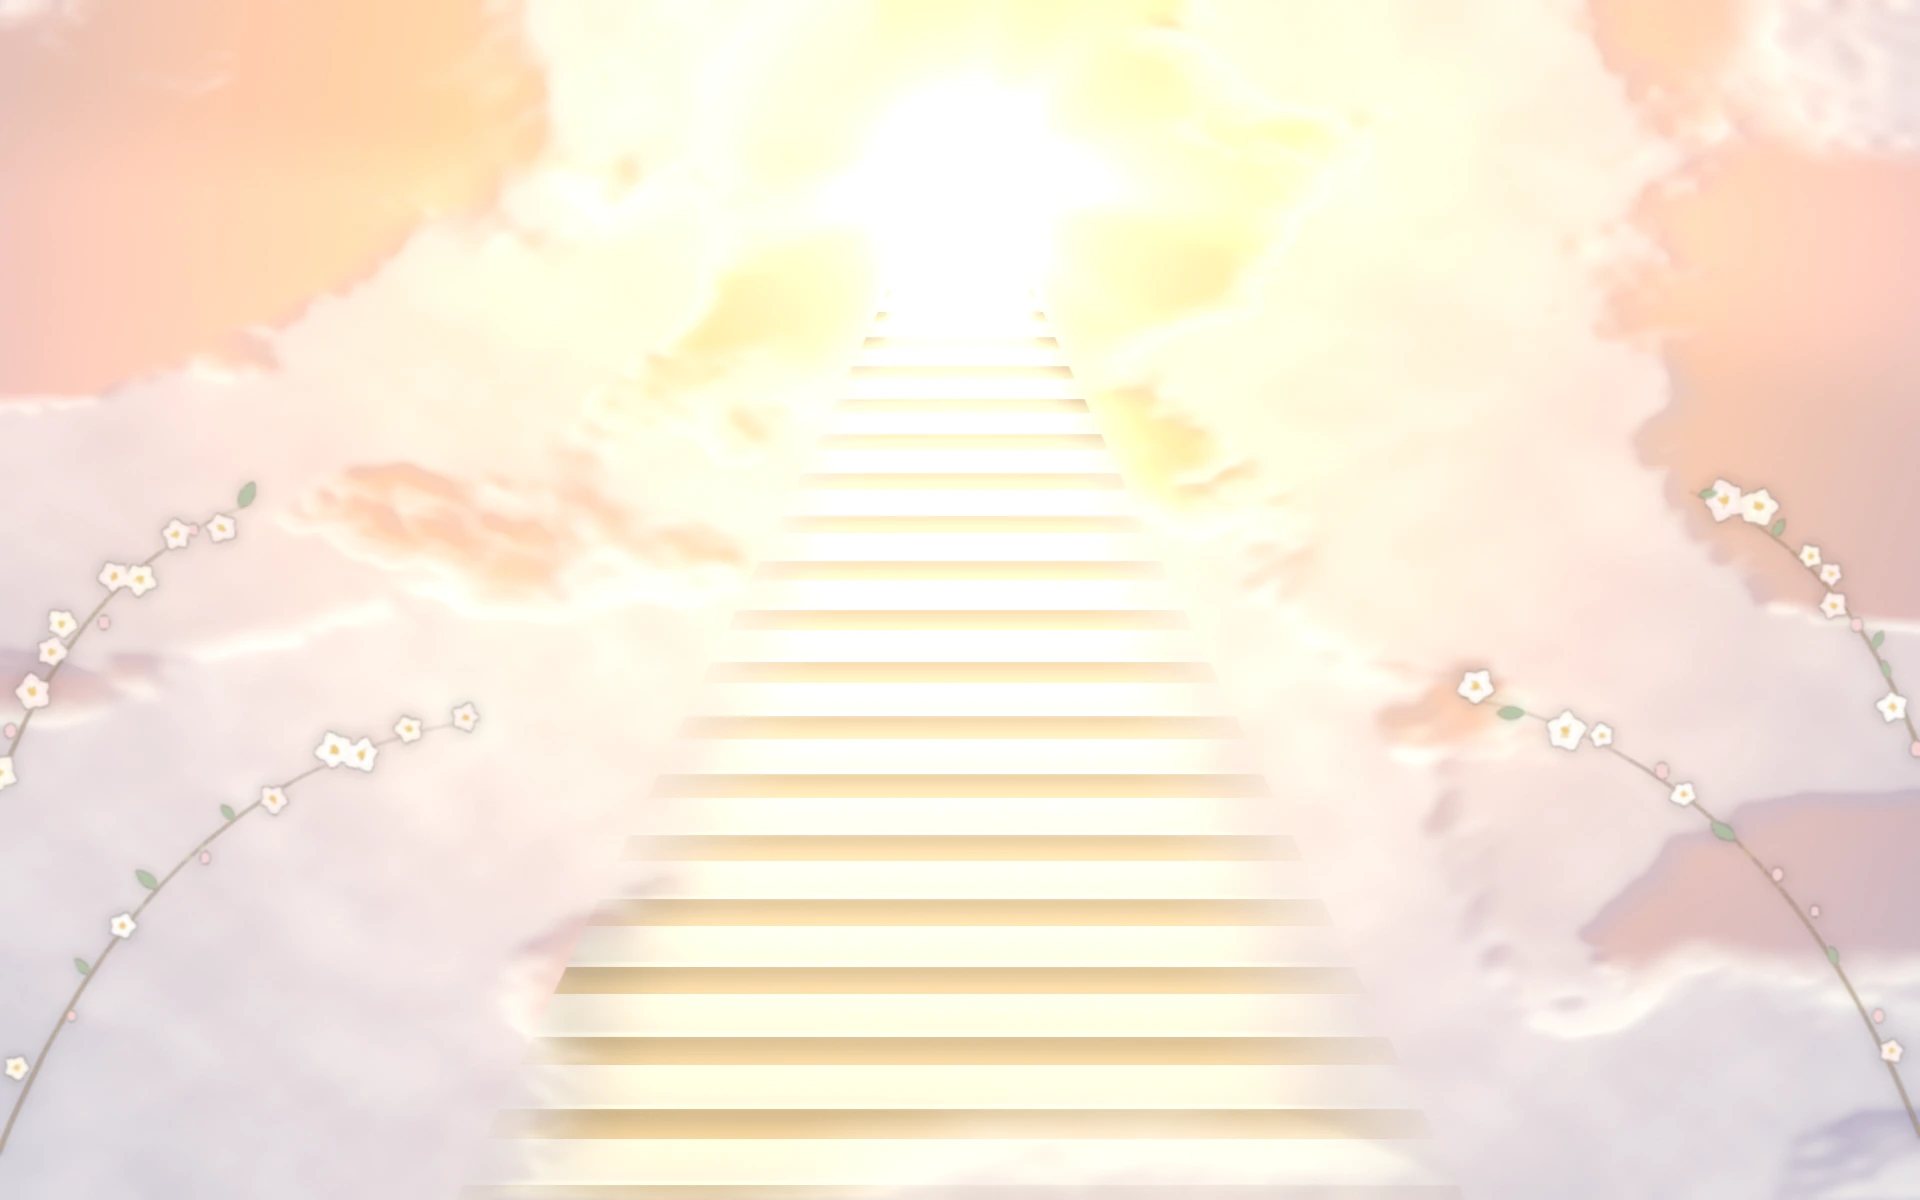
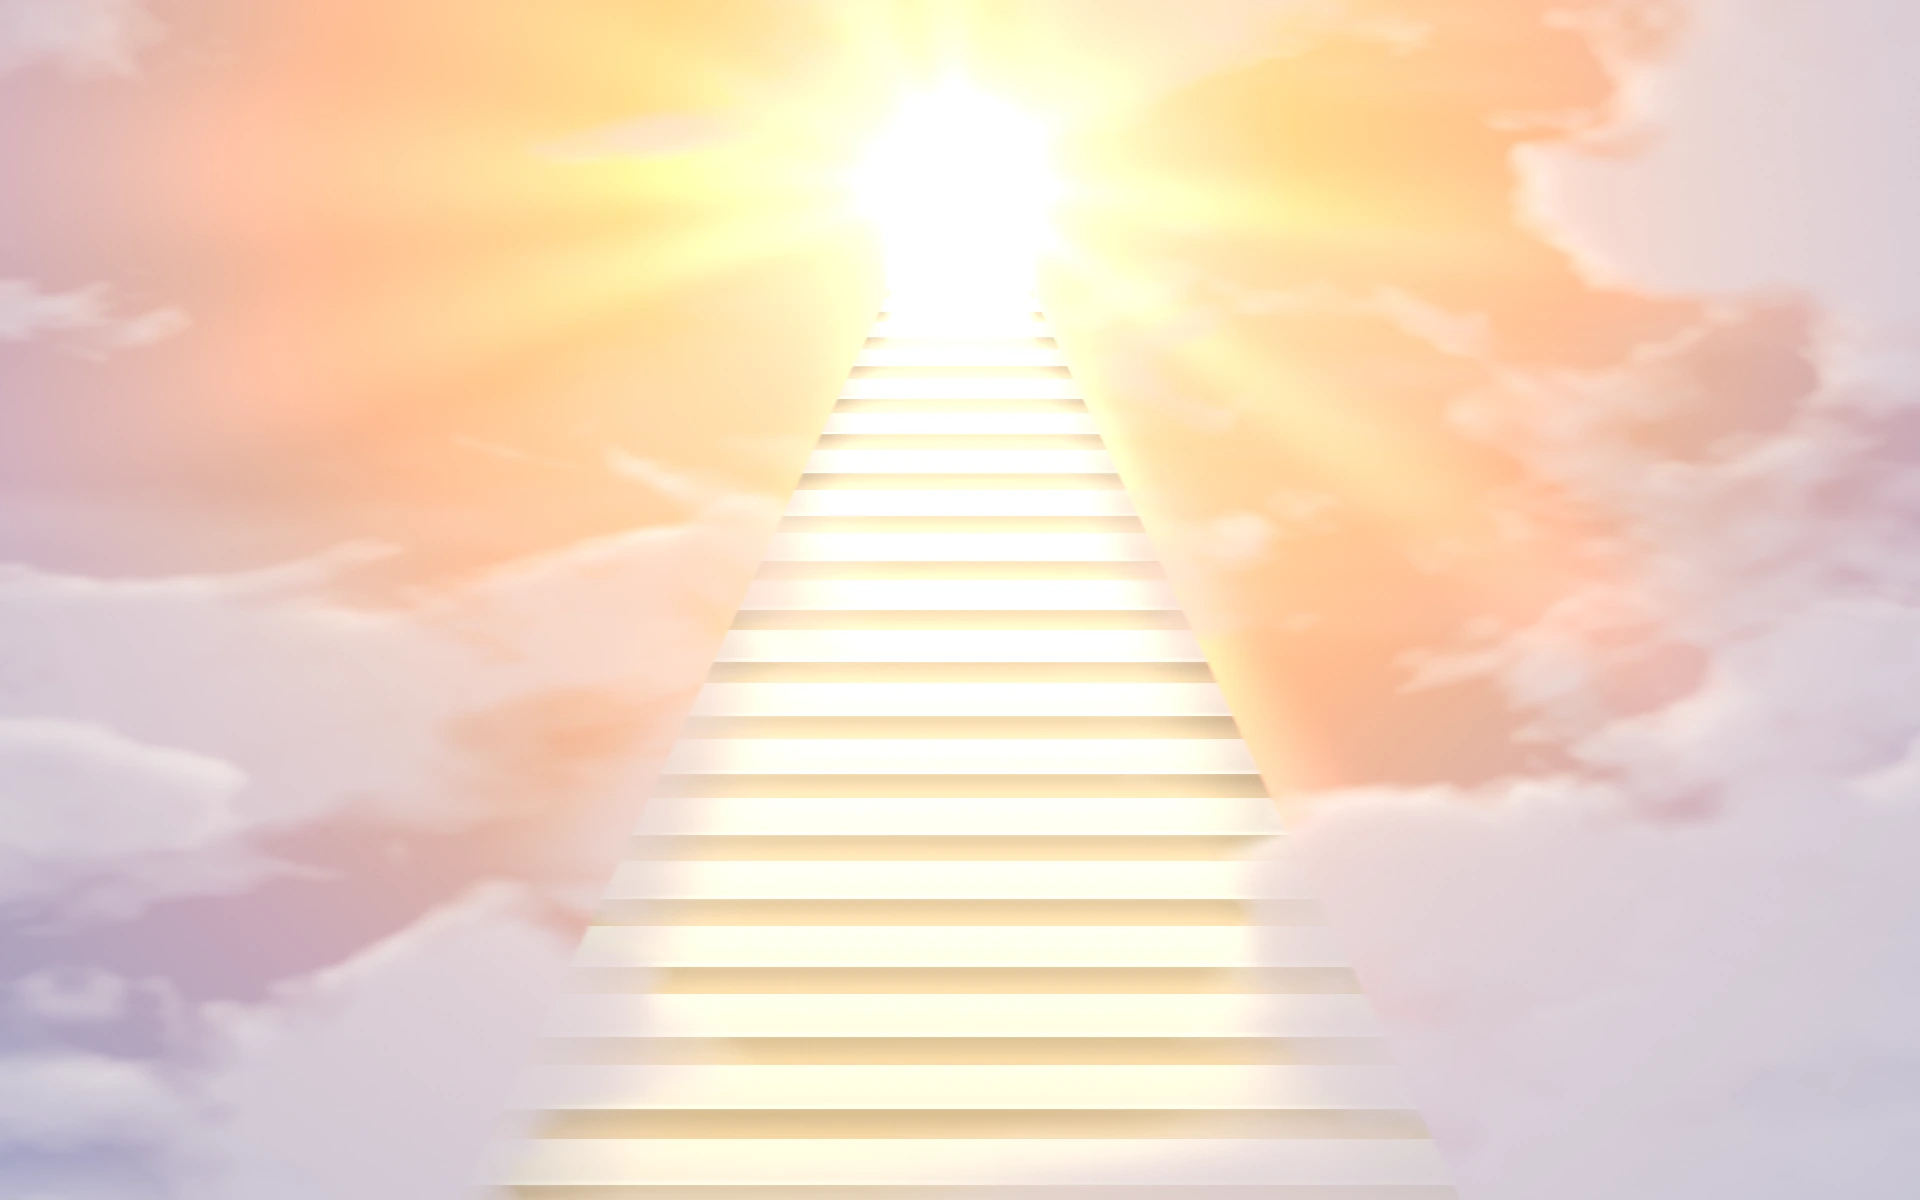
art(memorial): Heavenly — drop the blossoms, rebuild clouds to be soft and wispy
Feedback on the second version: the blossom branches looked wrong, and the
clouds read as solid rounded blobs.

- Blossoms removed entirely (no replacement).
- Clouds rebuilt: domain-warped noise so masses streak and curl; a soft
  threshold eroded by fine detail so rims break into wisps and fade out;
  shading by marching toward the light (no edge emboss); thin cloud stays
  translucent. Added high thin streaks, wisps drifting across the stair
  edges, and a deeper gold-to-lavender sky so bright clouds read against it.
- Stair edges feathered.

Still fully procedural/original (scripts/generate_heavenly_bg.py); images
regenerated (38 KB / 49 KB).

diff --git a/web-beats/scripts/generate_heavenly_bg.py b/web-beats/scripts/generate_heavenly_bg.py
@@ -1,22 +1,35 @@
 """Generates the "Heavenly" memorial-page background artwork.
 
 Original, procedurally generated art — every pixel comes from the maths below
-(fractal-noise clouds lit from a single light source, volumetric rays, a
-perspective stairway, blossom branches). No photo, stock image, AI image model
+(fractal-noise clouds lit from a single light source, soft rays, a perspective
+stairway rising into a glowing doorway). No photo, stock image, AI image model
 or third-party asset is involved, so there is nothing to license.
 
 Run from web-beats/:   py scripts/generate_heavenly_bg.py
 Writes  src/assets/memorial/heavenly-portrait.webp   (phones / portrait)
         src/assets/memorial/heavenly-landscape.webp  (desktop / landscape)
 Deterministic (fixed seeds): re-running reproduces the same images.
-Optional:  --preview DIR   also writes small PNG previews there.
+Options:  --preview DIR  also writes PNG previews there
+          --draft        half resolution, previews only (fast iteration)
+
+Clouds, and why they are built this way (2026-09-30 rework — the first pass
+read as solid rounded blobs):
+  * shape   — fractal noise sampled through a second, domain-WARPING noise, so
+              masses streak and curl instead of forming round cells;
+  * edges   — a wide soft threshold, then eroded by fine detail noise, so the
+              rim breaks up into wisps and fades out rather than ending at a line;
+  * shading — for each pixel, the cloud between it and the light is summed
+              along the way to the light (a cheap light march): faces toward
+              the light glow, the far side falls into soft shade. No edge
+              "emboss", which is what made the blobs look like cut-outs;
+  * opacity — thin cloud is translucent and takes on the sky's glow.
 """
 import math
 import pathlib
 import sys
 
 import numpy as np
-from PIL import Image, ImageDraw, ImageFilter
+from PIL import Image
 from scipy import ndimage
 
 OUT = pathlib.Path(__file__).resolve().parent.parent / "src" / "assets" / "memorial"
@@ -26,7 +39,7 @@ LAYOUTS = {
     "portrait": dict(size=(1080, 1920), light_v=0.125, stair_top_v=0.165, stair_bot_v=1.06,
                      half_top=0.030, half_bot=0.205, steps=26, seed=11),
     "landscape": dict(size=(1920, 1200), light_v=0.15, stair_top_v=0.20, stair_bot_v=1.08,
-                      half_top=0.042, half_bot=0.46, steps=24, seed=23),
+                      half_top=0.042, half_bot=0.46, steps=24, seed=41),
 }
 STAIR_EXP = 1.85  # perspective: steps bunch together as they recede
 
@@ -40,7 +53,7 @@ def lerp(a, b, t):
     return a + (b - a) * t
 
 
-def fbm(h, w, rows, stretch, octaves, rng):
+def fbm(h, w, rows, stretch, octaves, rng, gain=0.5):
     """Fractal value noise in [0,1]; `stretch` > 1 makes features wider than tall."""
     out = np.zeros((h, w), np.float32)
     amp, total = 1.0, 0.0
@@ -51,7 +64,7 @@ def fbm(h, w, rows, stretch, octaves, rng):
         layer = ndimage.zoom(grid, (h / (r + 1), w / (c + 1)), order=3, mode="reflect", grid_mode=True)
         out += amp * layer[:h, :w]
         total += amp
-        amp *= 0.5
+        amp *= gain
     out /= total
     lo, hi = np.percentile(out, (1, 99))
     return np.clip((out - lo) / (hi - lo), 0, 1)
@@ -64,79 +77,50 @@ def ramp(d, stops):
     return np.stack([np.interp(d, ds, cols[:, k]) for k in range(3)], axis=-1)
 
 
-def cloud_layer(img, dens, u, v, lu, lv, d, detail, strength=0.95):
-    """Composite a cloud density field, rim-lit from the light at (lu, lv)."""
-    hh = dens.shape[0]
-    soft = ndimage.gaussian_filter(dens, hh * 0.004)
-    gy, gx = np.gradient(soft)
+def warped_noise(h, w, rows, stretch, rng, warp=0.06):
+    """fbm sampled through a second noise field, so shapes streak and curl."""
+    base = fbm(h, w, rows, stretch, 6, rng, gain=0.55)
+    wx = fbm(h, w, rows * 1.3, stretch, 3, rng) - 0.5
+    wy = fbm(h, w, rows * 1.3, stretch, 3, rng) - 0.5
+    yy, xx = np.mgrid[0:h, 0:w].astype(np.float32)
+    amp = h * warp
+    return ndimage.map_coordinates(base, [yy + wy * amp, xx + wx * amp * stretch], order=1, mode="reflect")
+
+
+def cloud_density(h, w, rows, stretch, rng, cover, soft=(0.45, 0.72), erode=0.60):
+    """Soft, wispy density in [0,1]: warped masses with detail-eroded edges."""
+    shape = warped_noise(h, w, rows, stretch, rng) + (cover - 0.5) * 0.9
+    body = smoothstep(soft[0], soft[1], shape)                       # wide ramp: no hard rim
+    detail = warped_noise(h, w, rows * 5, stretch * 1.15, rng, warp=0.025)
+    cut = erode * detail * (1 - body)                                # erosion bites the thin edges only
+    dens = np.clip((body - cut) / (1 - cut + 1e-4), 0, 1)
+    billow = warped_noise(h, w, rows * 2.4, stretch * 0.8, rng, warp=0.035)      # puffs inside the mass
+    dens = np.clip(dens * (0.70 + 0.30 * smoothstep(0.15, 0.85, billow)) * 1.30, 0, 1)
+    return ndimage.gaussian_filter(dens ** 1.1, h * 0.0014)
+
+
+def light_march(dens, u, v, lu, lv, h, steps=10, reach=0.075, absorb=2.3):
+    """Fraction of light reaching each pixel: sum the cloud on the way to the light."""
+    yy, xx = np.mgrid[0:dens.shape[0], 0:dens.shape[1]].astype(np.float32)
     du, dv = lu - u, lv - v
     n = np.sqrt(du * du + dv * dv) + 1e-6
-    rim = -(gx * du / n + gy * dv / n) * hh * 0.045    # edges facing the light catch it
-    near = 1 - smoothstep(0.10, 0.95, d)
-    lit = np.clip(0.56 + rim + 0.20 * (detail - 0.5) + 0.30 * near, 0, 1)[..., None]
-    shadow = ramp(d, [(0.0, (255, 232, 184)), (0.35, (246, 214, 184)), (0.75, (218, 198, 204)), (1.3, (184, 182, 214))])
-    highlight = np.array([255, 254, 248], np.float32) / 255.0
-    colour = shadow + (highlight - shadow) * lit
-    a = (dens * strength)[..., None]
+    sx, sy = du / n * h * reach / steps, dv / n * h * reach / steps
+    acc = np.zeros_like(dens)
+    for i in range(1, steps + 1):
+        acc += ndimage.map_coordinates(dens, [yy + sy * i, xx + sx * i], order=1, mode="nearest")
+    return np.exp(-absorb * acc / steps * 2.2)
+
+
+def composite_clouds(img, dens, u, v, lu, lv, d, h, strength=0.92):
+    trans = light_march(dens, u, v, lu, lv, h)
+    near = 1 - smoothstep(0.08, 0.95, d)
+    lit = np.clip(0.24 + 0.72 * trans + 0.12 * near, 0, 1)[..., None] ** 0.85
+    # shade: warm close to the light, cooling to a soft lilac far from it
+    shade = ramp(d, [(0.0, (250, 222, 170)), (0.35, (238, 204, 184)), (0.75, (214, 196, 208)), (1.3, (186, 188, 220))])
+    glow = ramp(d, [(0.0, (255, 254, 244)), (0.5, (255, 252, 242)), (1.3, (253, 248, 246))])
+    colour = shade + (glow - shade) * lit
+    a = (np.clip(dens, 0, 1) ** 0.85 * strength)[..., None]          # thin cloud stays translucent
     return img * (1 - a) + colour * a
-
-
-def petal_polygon(cx, cy, r, angle, rng, slim=1.0):
-    """A soft teardrop petal pointing outward at `angle`."""
-    pts = []
-    width = r * rng.uniform(0.40, 0.52) * slim
-    for i in range(22):
-        t = i / 21 * 2 * math.pi
-        along = (1 - math.cos(t)) / 2 * r * 1.05           # 0 at the base, r at the tip
-        across = math.sin(t) * width * (0.35 + 0.65 * math.sin(math.pi * along / (r * 1.05)) ** 0.7)
-        pts.append((cx + along * math.cos(angle) - across * math.sin(angle),
-                    cy + along * math.sin(angle) + across * math.cos(angle)))
-    return pts
-
-
-def draw_blossom(draw, cx, cy, r, rng):
-    base = rng.uniform(0, 2 * math.pi)
-    tint = [(255, 253, 248), (255, 240, 236), (255, 247, 234)][rng.integers(0, 3)]
-    for k in range(5):
-        ang = base + k * 2 * math.pi / 5 + rng.uniform(-0.12, 0.12)
-        rr = r * rng.uniform(0.9, 1.08)
-        draw.polygon(petal_polygon(cx, cy, rr, ang, rng), fill=tint + (235,))
-        inner = tuple(min(255, c + 6) for c in tint)
-        draw.polygon(petal_polygon(cx, cy, rr * 0.62, ang, rng), fill=inner + (255,))
-    c = r * 0.2
-    draw.ellipse((cx - c, cy - c, cx + c, cy + c), fill=(240, 204, 128, 255))
-    for _ in range(5):
-        a, rad = rng.uniform(0, 2 * math.pi), r * rng.uniform(0.2, 0.34)
-        x, y = cx + rad * math.cos(a), cy + rad * math.sin(a)
-        draw.ellipse((x - r * 0.04, y - r * 0.04, x + r * 0.04, y + r * 0.04), fill=(222, 170, 92, 255))
-
-
-def blossom_branch(layer, start, end, bend, scale, rng):
-    """A thin branch from `start` curving to `end`, carrying blossoms, buds and leaves."""
-    draw = ImageDraw.Draw(layer, "RGBA")
-    (x0, y0), (x1, y1) = start, end
-    mx, my = (x0 + x1) / 2 + bend[0], (y0 + y1) / 2 + bend[1]
-    pts = []
-    for i in range(41):
-        t = i / 40
-        pts.append(((1 - t) ** 2 * x0 + 2 * (1 - t) * t * mx + t * t * x1,
-                    (1 - t) ** 2 * y0 + 2 * (1 - t) * t * my + t * t * y1))
-    for i in range(len(pts) - 1):
-        wdt = max(1, int(scale * 0.11 * (1 - i / len(pts)) + 1))
-        draw.line([pts[i], pts[i + 1]], fill=(176, 142, 108, 170), width=wdt)
-    for i in range(6, len(pts), 3):
-        x, y = pts[i]
-        side = rng.choice([-1, 1])
-        jx, jy = rng.uniform(-0.5, 0.5) * scale, rng.uniform(-0.55, 0.35) * scale
-        roll = rng.random()
-        if roll < 0.5:
-            draw_blossom(draw, x + jx, y + jy, scale * rng.uniform(0.34, 0.62), rng)
-        elif roll < 0.72:                                   # bud
-            b = scale * rng.uniform(0.12, 0.2)
-            draw.ellipse((x + jx - b, y + jy - b * 1.3, x + jx + b, y + jy + b * 1.3), fill=(250, 214, 214, 235))
-        else:                                               # leaf
-            ang = rng.uniform(-math.pi, 0) + side * 0.3
-            draw.polygon(petal_polygon(x, y, scale * rng.uniform(0.55, 0.85), ang, rng, slim=0.5), fill=(172, 192, 160, 200))
 
 
 def render(name, cfg, scale=1.0):
@@ -147,12 +131,13 @@ def render(name, cfg, scale=1.0):
     v = yy / h
     lu, lv = 0.0, cfg["light_v"]
     d = np.sqrt((u - lu) ** 2 + (v - lv) ** 2)
+    rs = h / min(w, h)                                     # noise rows scale: 1 landscape, ~1.8 portrait
 
     # ── sky: warm light radiating from the top of the stairway ──────────────
-    img = ramp(d, [(0.0, (255, 254, 246)), (0.10, (255, 247, 218)), (0.28, (255, 230, 168)),
-                   (0.52, (250, 210, 170)), (0.85, (228, 194, 190)), (1.25, (190, 184, 212))])
+    img = ramp(d, [(0.0, (255, 254, 246)), (0.10, (255, 244, 204)), (0.28, (255, 218, 142)),
+                   (0.52, (243, 188, 146)), (0.85, (204, 172, 190)), (1.25, (150, 162, 208))])
 
-    # ── volumetric rays ─────────────────────────────────────────────────────
+    # ── soft rays ───────────────────────────────────────────────────────────
     theta = np.arctan2(v - lv, u - lu)                      # 0..pi is below the light
     knots = ndimage.gaussian_filter1d(rng.random(64), 1.2, mode="wrap")
     knots = (knots - knots.min()) / (knots.max() - knots.min())
@@ -160,7 +145,7 @@ def render(name, cfg, scale=1.0):
     ray = np.interp((theta + math.pi) / (2 * math.pi) * (len(strip) - 1), np.arange(len(strip)), strip)
     ray = smoothstep(0.35, 0.95, ray) * np.exp(-d * 1.9) * (0.30 + 0.70 * smoothstep(-0.3, 0.6, np.sin(theta)))
     ray = ndimage.gaussian_filter(ray, h * 0.006)
-    img += ray[..., None] * np.array([1.0, 0.96, 0.82]) * 0.40
+    img += ray[..., None] * np.array([1.0, 0.96, 0.82]) * 0.38
 
     # ── stairway geometry ───────────────────────────────────────────────────
     vt, vb = cfg["stair_top_v"], cfg["stair_bot_v"]
@@ -168,15 +153,19 @@ def render(name, cfg, scale=1.0):
     s = 1 - q ** (1 / STAIR_EXP)                             # 0 at the bottom, 1 at the top
     half = cfg["half_top"] + (cfg["half_bot"] - cfg["half_top"]) * q
     px = 1.0 / h
+    away_from_light = smoothstep(0.05, 0.24, d)
+
+    # ── high, thin streaks of cloud (cirrus) across the upper sky ───────────
+    cirrus = warped_noise(h, w, int(4 * rs), 6.0, rng, warp=0.03)
+    cirrus = smoothstep(0.50, 0.98, cirrus) * (1 - smoothstep(0.35, 0.80, v)) * away_from_light
+    img = composite_clouds(img, cirrus * 0.55, u, v, lu, lv, d, h, strength=0.75)
 
     # ── clouds behind the stairway ──────────────────────────────────────────
-    corridor = smoothstep(half * 0.85, half * 1.25 + 0.025, np.abs(u))
-    rs = h / min(w, h)                                      # rows scale: 1 landscape, ~1.8 portrait
-    n_back = fbm(h, w, int(5 * rs), 2.0, 6, rng)
-    cover = 0.44 + 0.30 * smoothstep(0.10, 0.70, v)
-    dens = smoothstep(0.47, 0.66, n_back + (cover - 0.5) * 0.9)
-    dens *= (0.10 + 0.90 * corridor) * smoothstep(0.05, 0.22, d)
-    img = cloud_layer(img, dens, u, v, lu, lv, d, fbm(h, w, 22, 1.4, 3, rng), strength=0.85)
+    corridor = smoothstep(half * 0.80, half * 1.30 + 0.03, np.abs(u))
+    cover = (0.43 if rs > 1 else 0.37) + 0.24 * smoothstep(0.10, 0.75, v)
+    back = cloud_density(h, w, int(4 * rs), 2.4, rng, cover)
+    back *= (0.08 + 0.92 * corridor) * away_from_light
+    img = composite_clouds(img, back, u, v, lu, lv, d, h, strength=0.80)
 
     # ── the stairway ────────────────────────────────────────────────────────
     k = s * cfg["steps"]
@@ -190,9 +179,9 @@ def render(name, cfg, scale=1.0):
     tread_shade = (0.965 + 0.035 * smoothstep(0.40, 1.0, f))[..., None]
     step_c = tread_c * tread_shade * (1 - riser[..., None]) + riser_c * riser_shade * riser[..., None]
     step_c = np.clip(step_c + nosing[..., None] * 0.06, 0, 1)
-    edge = (half - np.abs(u)) / (2.5 * px)
     step_c *= (0.90 + 0.10 * smoothstep(0, half * 0.35, half - np.abs(u)))[..., None]   # side shading
-    inside = np.clip(edge, 0, 1) * (v >= vt)
+    feather = 0.0035 + 0.006 * q                           # edges soften as the stairs come nearer
+    inside = smoothstep(0.0, 1.0, (half - np.abs(u)) / feather) * (v >= vt)
     a = inside[..., None]
     img = img * (1 - a) + step_c * a
 
@@ -208,46 +197,31 @@ def render(name, cfg, scale=1.0):
     spill = ndimage.gaussian_filter(inside * s, h * 0.02)
     img += spill[..., None] * np.array([1.0, 0.95, 0.80]) * 0.16
 
-    # ── clouds in front: they swallow the stair edges and its foot ──────────
-    n_front = fbm(h, w, int(3 * rs + 0.5), 1.7, 6, rng)
-    edge_zone = smoothstep(half * 0.50, half * 1.05 + 0.015, np.abs(u))
-    cover_f = 0.42 + 0.44 * smoothstep(0.18, 0.95, v)
-    dens_f = smoothstep(0.49, 0.68, n_front + (cover_f - 0.5) * 1.0) * edge_zone
-    foot = smoothstep(0.90, 1.0, v + 0.10 * (n_front - 0.5))
-    dens_f = np.maximum(dens_f, foot * 0.92) * smoothstep(0.06, 0.24, d)
-    img = cloud_layer(img, dens_f, u, v, lu, lv, d, fbm(h, w, 26, 1.3, 3, rng), strength=0.95)
+    # ── clouds in front: they drift across the stair edges and its foot ─────
+    edge_zone = smoothstep(half * 0.30, half * 1.00 + 0.015, np.abs(u))
+    cover_f = (0.40 if rs > 1 else 0.33) + 0.24 * smoothstep(0.18, 0.95, v)
+    front = cloud_density(h, w, int(2.6 * rs + 0.5), 2.0, rng, cover_f) * edge_zone
+    mist = warped_noise(h, w, int(3 * rs), 3.0, rng, warp=0.04)
+    wisp = warped_noise(h, w, int(7 * rs), 3.5, rng, warp=0.05)
+    band = np.exp(-(((np.abs(u) - half) / (0.022 + 0.075 * q)) ** 2))            # hugs both stair edges
+    edge_wisps = band * smoothstep(0.40, 0.78, wisp) * smoothstep(0.02, 0.30, q) * 0.85
+    foot = smoothstep(0.93, 1.04, v + 0.14 * (mist - 0.5))
+    front = np.maximum(np.maximum(front, edge_wisps), foot * 0.85) * away_from_light
+    img = composite_clouds(img, front, u, v, lu, lv, d, h, strength=0.92)
+
+    # a breath of haze low down, so the far clouds melt into the distance
+    haze = smoothstep(0.45, 1.0, v) * (0.25 + 0.75 * mist) * 0.07
+    img = img * (1 - haze[..., None]) + np.array([252, 240, 232], np.float32) / 255 * haze[..., None]
 
     # ── bloom: everything bright glows ──────────────────────────────────────
     img = np.clip(img, 0, 1.6)
     bright = np.clip(img - 0.90, 0, None)
     img += ndimage.gaussian_filter(bright, (h * 0.012, h * 0.012, 0)) * 0.45
     img += ndimage.gaussian_filter(bright, (h * 0.05, h * 0.05, 0)) * 0.30
-    core = np.exp(-(d / 0.075) ** 2)
-    img += core[..., None] * 0.30
+    img += np.exp(-(d / 0.075) ** 2)[..., None] * 0.30
     img *= (1 - 0.06 * smoothstep(0.55, 1.35, d))[..., None]                # faint vignette
     img += (rng.random((h, w, 1)).astype(np.float32) - 0.5) * 0.012         # dither, avoids banding
-    base = Image.fromarray((np.clip(img, 0, 1) * 255).astype(np.uint8), "RGB").convert("RGBA")
-
-    # ── floral touches: blossom branches reaching in from the lower corners ─
-    ss = 2
-    layer = Image.new("RGBA", (w * ss, h * ss), (0, 0, 0, 0))
-    unit = h * ss * (0.019 if name == "portrait" else 0.027)
-    W2, H2 = w * ss, h * ss
-    frng = np.random.default_rng(cfg["seed"] + 100)
-    if name == "portrait":
-        branches = [((-0.02, 0.385), (0.31, 0.235), (-0.02, -0.09)), ((1.02, 0.36), (0.71, 0.225), (0.02, -0.08)),
-                    ((-0.02, 0.99), (0.36, 0.83), (-0.02, -0.12)), ((1.02, 0.97), (0.66, 0.82), (0.02, -0.11))]
-    else:
-        branches = [((-0.01, 1.00), (0.25, 0.60), (-0.05, -0.16)), ((1.01, 0.99), (0.76, 0.58), (0.05, -0.15)),
-                    ((-0.01, 0.70), (0.13, 0.42), (-0.03, -0.08)), ((1.01, 0.68), (0.88, 0.41), (0.03, -0.08))]
-    for (sx, sy), (ex, ey), (bx, by) in branches:
-        blossom_branch(layer, (sx * W2, sy * H2), (ex * W2, ey * H2), (bx * W2, by * H2), unit, frng)
-    layer = layer.resize((w, h), Image.LANCZOS).filter(ImageFilter.GaussianBlur(h * 0.0011))
-    halo = layer.filter(ImageFilter.GaussianBlur(h * 0.006))                  # soft glow behind the petals
-    halo.putalpha(halo.getchannel("A").point(lambda p: int(p * 0.35)))
-    base.alpha_composite(halo)
-    base.alpha_composite(layer)
-    return base.convert("RGB")
+    return Image.fromarray((np.clip(img, 0, 1) * 255).astype(np.uint8), "RGB")
 
 
 def main():
